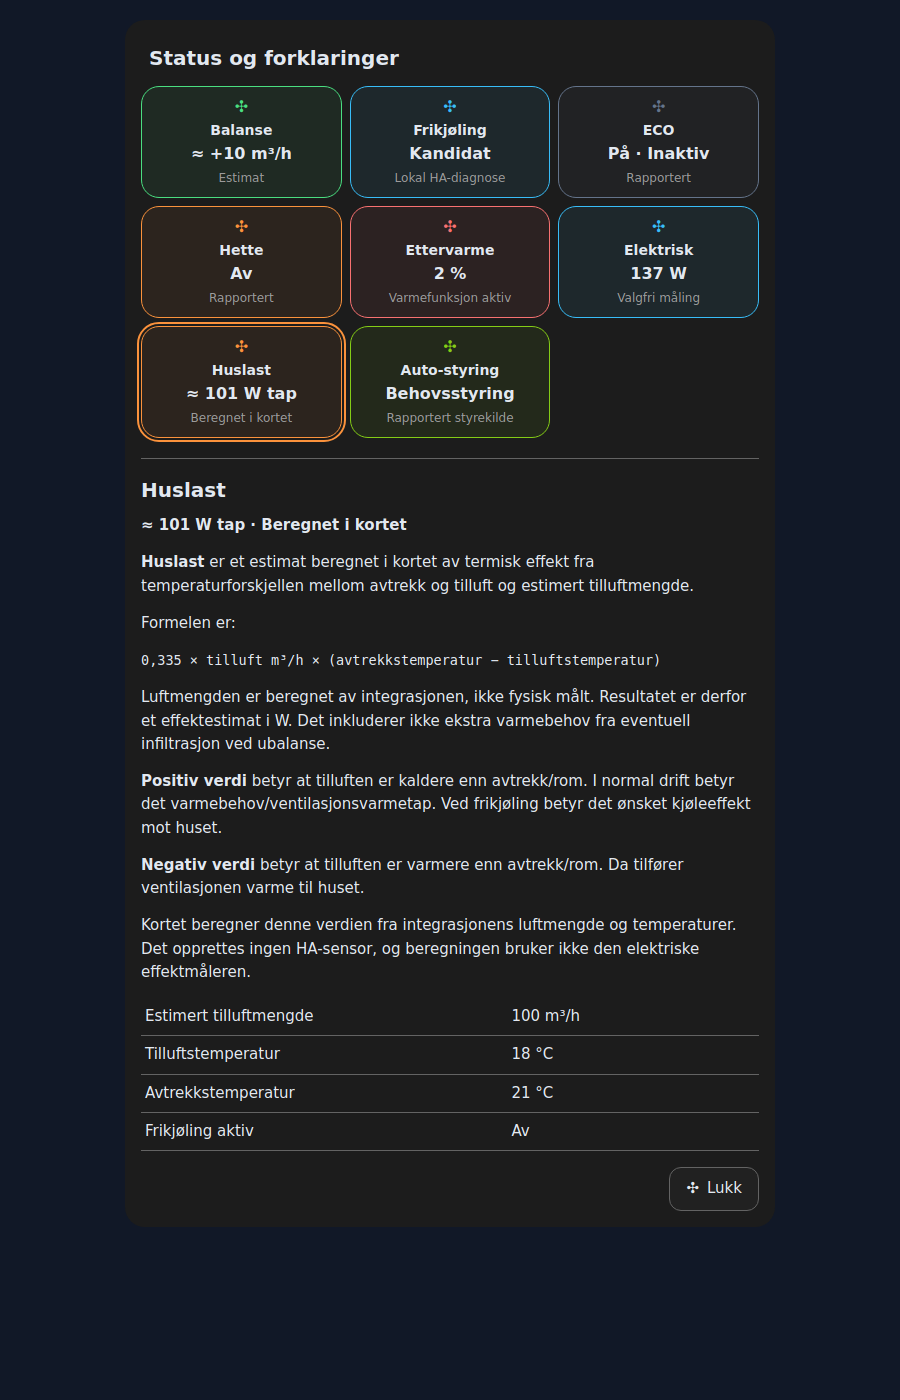
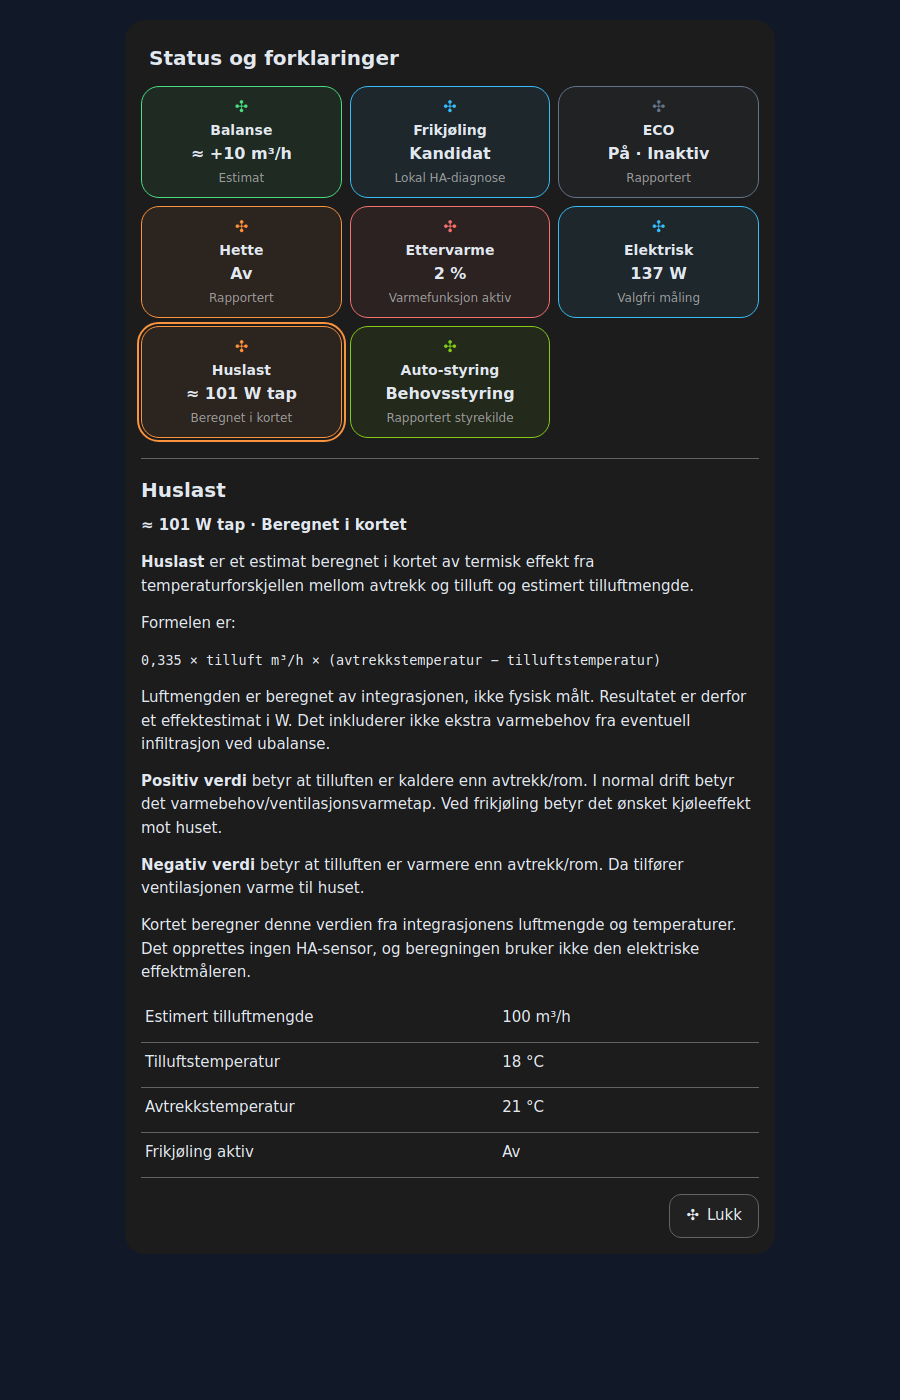
Open mapped HA entity details from explanation rows (1.2.3)

Changed region(s): [[0.1556, 0.7064, 0.3422, 0.8293], [0.56, 0.7064, 0.6533, 0.8293], [0.7467, 0.8293, 0.84, 0.8907]]

diff --git a/vsr300-cards.js b/vsr300-cards.js
@@ -1,4 +1,4 @@
-/* VSR300 custom cards · version 1.2.2 · 2026-11-03
+/* VSR300 custom cards · version 1.2.3 · 2026-11-03
  * SPDX-License-Identifier: MIT
  * Copyright (c) 2026 stboee
  * Based on Systemair SVG / Kontrollpanel 4.8.1.
@@ -8,7 +8,7 @@
  */
 (() => {
   'use strict';
-  const VERSION = '1.2.2';
+  const VERSION = '1.2.3';
   const FIELD = (key, label, domain, defaultId, extra = {}) => ({ key, label, domain, defaultId, ...extra });
   const SVG_FIELDS = [
     FIELD('mode', 'Rapportert driftsmodus', 'sensor', 'sensor.systemair_save_modus'),
@@ -889,7 +889,10 @@ const portRow = (role, x, y, height, content) => `<g ${action(role)}><rect class
     .status-button strong{font-size:14px}.status-button .reading{font-size:16px;font-weight:850;line-height:1.3}.status-button .kind{font-size:12px;line-height:1.3;color:var(--secondary-text-color,#9b9b9b)}
     .status-button ha-icon{--mdc-icon-size:28px}.explanation-panel{margin-top:20px;border-top:1px solid var(--divider-color,#636363);padding-top:16px;font-size:15px;line-height:1.55}
     .explanation-panel[hidden]{display:none}.explanation-panel h3{margin:0 0 8px;font-size:20px}.summary{font-weight:700;margin:0 0 12px}.explanation-panel p{margin:0 0 14px}.explanation-panel ul{padding-left:22px;margin:0 0 14px}
-    code{font-size:.9em;overflow-wrap:anywhere}.values{width:100%;border-collapse:collapse;table-layout:fixed;margin:12px 0 16px}.values td{padding:7px 4px;border-bottom:1px solid var(--divider-color,#636363);vertical-align:top;overflow-wrap:anywhere}.values td:first-child{width:58%}.values .source{display:block;font-weight:400;font-size:12px;color:var(--secondary-text-color,#9b9b9b)}
+    code{font-size:.9em;overflow-wrap:anywhere}.values{width:100%;border-collapse:collapse;table-layout:fixed;margin:12px 0 16px}.values td{padding:0;border-bottom:1px solid var(--divider-color,#636363);vertical-align:top;overflow-wrap:anywhere}.values .source{display:block;font-weight:400;font-size:12px;color:var(--secondary-text-color,#9b9b9b)}
+    .entity-row{display:grid;grid-template-columns:minmax(0,58fr) minmax(0,42fr);align-items:start;gap:8px;width:100%;min-height:44px;box-sizing:border-box;margin:0;padding:8px 4px;border:0;border-radius:6px;background:transparent;color:inherit;font:inherit;line-height:inherit;text-align:left;cursor:default}
+    .entity-row>span{min-width:0;overflow-wrap:anywhere}button.entity-row{cursor:pointer;touch-action:manipulation}button.entity-row:focus-visible{outline:3px solid var(--primary-color,#03a9f4);outline-offset:-3px}
+    @media(hover:hover){button.entity-row:hover{background:rgba(127,127,127,.10)}}
     .close-row{display:flex;justify-content:flex-end}.close-button{min-height:44px;flex-direction:row;padding:8px 16px;gap:8px;border-radius:12px}.close-button ha-icon{--mdc-icon-size:20px}
     @media(max-width:380px){ha-card{padding:12px}.status-grid{gap:6px}.status-button{padding:8px 4px}}
   `;
@@ -921,8 +924,18 @@ const portRow = (role, x, y, height, content) => `<g ${action(role)}><rect class
     constructor() {
       super(); this._selected = null;
       this.shadowRoot.addEventListener('click', event => {
-        const button = event.composedPath().find(el => el instanceof HTMLElement && el.matches('button[data-topic],button[data-close]'));
+        const button = event.composedPath().find(el => el instanceof HTMLElement && el.matches('button[data-topic],button[data-close],button[data-entity-role]'));
         if (!button) return;
+        if (button.dataset.entityRole) {
+          const role = button.dataset.entityRole, id = this._config?.entities[role];
+          if (EXPLANATION_FIELDS.some(field => field.key === role) && id && this._hass?.states?.[id]) {
+            this.dispatchEvent(new CustomEvent('hass-action', {
+              bubbles: true, composed: true,
+              detail: { config: { entity: id, tap_action: { action: 'more-info' } }, action: 'tap' },
+            }));
+          }
+          return;
+        }
         const closing = button.hasAttribute('data-close'), previous = this._selected;
         if (closing) this._selected = null;
         else if (EXPLANATION_TOPICS.some(topic => topic.key === button.dataset.topic)) this._selected = previous === button.dataset.topic ? null : button.dataset.topic;
@@ -1013,18 +1026,25 @@ const portRow = (role, x, y, height, content) => `<g ${action(role)}><rect class
       const text = topic.text.replace(/\{\{([a-z0-9_]+)\}\}/g, (_, role) => EXPLANATION_FIELDS.find(field => field.key === role)?.label || 'Beregnet i kortet');
       const rows = topic.roles.filter(role => this._config.entities[role]).map(role => {
         const field = EXPLANATION_FIELDS.find(item => item.key === role), id = this._config.entities[role];
-        return `<tr><td>${escape(field.label)}${this._config.show_sources ? `<code class="source">${escape(id)}</code>` : ''}</td><td>${escape(this._value(role))}</td></tr>`;
+        const content = `<span class="entity-label">${escape(field.label)}${this._config.show_sources ? `<code class="source">${escape(id)}</code>` : ''}</span><span class="entity-value">${escape(this._value(role))}</span>`;
+        const row = this._hass.states[id]
+          ? `<button class="entity-row" type="button" data-entity-role="${escape(role)}" aria-label="${escape('Vis detaljer og historikk: ' + field.label)}">${content}</button>`
+          : `<div class="entity-row">${content}</div>`;
+        return `<tr><td colspan="2">${row}</td></tr>`;
       }).join('');
       return `<h3 id="explanation-title">${escape(topic.title)}</h3><p class="summary">${escape(status.label)} · ${escape(status.kind)}</p>${explanationHtml(text)}${rows ? `<table class="values" aria-label="Relevante verdier"><tbody>${rows}</tbody></table>` : ''}<div class="close-row"><button class="close-button" data-close type="button"><ha-icon icon="mdi:close" aria-hidden="true"></ha-icon>Lukk</button></div>`;
     }
     _render() {
-      const focus = this.shadowRoot.activeElement?.dataset.topic, statuses = this._statuses();
+      const focused = this.shadowRoot.activeElement, focus = focused?.dataset.topic, focusRole = focused?.dataset.entityRole;
+      const focusClose = focused?.hasAttribute('data-close'), statuses = this._statuses();
       const topic = EXPLANATION_TOPICS.find(item => item.key === this._selected);
       this.shadowRoot.innerHTML = `<style>${SHARED_STYLE}${EXPLANATION_STYLE}</style><ha-card>${this._heading()}${this._missingNotice()}<div class="status-grid">${EXPLANATION_TOPICS.map(item => {
         const status = statuses[item.key];
         return `<button class="status-button" type="button" data-topic="${item.key}" aria-expanded="${this._selected === item.key}" aria-controls="explanation-panel" style="--accent:${status.color};--tile-tint:${status.color}12"><ha-icon icon="${item.icon}" aria-hidden="true"></ha-icon><strong>${escape(item.name)}</strong><span class="reading">${escape(status.label)}</span><span class="kind">${escape(status.kind)}</span></button>`;
       }).join('')}</div><section id="explanation-panel" class="explanation-panel" aria-labelledby="explanation-title" ${topic ? '' : 'hidden'}>${topic ? this._details(topic, statuses[topic.key]) : ''}</section></ha-card>`;
       if (focus) this.shadowRoot.querySelector(`button[data-topic="${focus}"]`)?.focus({ preventScroll: true });
+      else if (focusRole) this.shadowRoot.querySelector(`button[data-entity-role="${focusRole}"]`)?.focus({ preventScroll: true });
+      else if (focusClose) this.shadowRoot.querySelector('button[data-close]')?.focus({ preventScroll: true });
     }
   }
 

diff --git a/README.nb.md b/README.nb.md
@@ -2,7 +2,7 @@
 
 Tre Home Assistant-kort for Systemair SAVE VSR300: **Systemair SVG**,
 **Systemair Kontrollpanel** og det valgfrie **Systemair Status og forklaringer**,
-med grafisk valg av entiteter. Kortversjon: **1.2.2**.
+med grafisk valg av entiteter. Kortversjon: **1.2.3**.
 Referanseoppsettet er HA 2026.10.2 og
 [Howard systemair_modbus 1.3.0](https://github.com/Howard0000/home-assistant-systemair-modbus).
 
@@ -22,7 +22,7 @@ Ved overgang fra manuell installasjon erstatter du den gamle ressursen
 
 1. Last ned [vsr300-cards.js](vsr300-cards.js) med GitHubs **Download raw file**-knapp.
 2. Kopier filen til `/config/www/vsr300/vsr300-cards.js` i Home Assistant. Opprett mappen `vsr300` ved behov.
-3. Legg til en dashboardressurs med URL **`/local/vsr300/vsr300-cards.js?v=1.2.2`** og type **JavaScript-modul**.
+3. Legg til en dashboardressurs med URL **`/local/vsr300/vsr300-cards.js?v=1.2.3`** og type **JavaScript-modul**.
 4. Last nettlesersiden helt på nytt. Rediger dashboardet og legg til kortene du ønsker fra kortvelgeren.
 
 ## Oppsett av kortene
@@ -106,7 +106,7 @@ SVG-ens totale bredde og skriftstørrelser er beholdt.
 - `≈` markerer integrasjonens estimerte luftmengde. **Vekslerpådrag** er et pådrag, ikke målt virkningsgrad. Ettervarme vises i prosent, uten wattestimat.
 - Hvert aktivt tilkoblet alarmsignal får egen rad. A/B/C er samlealarmer og kan overlappe andre indikasjoner.
 - Luftveiene og animasjonene er skjematiske.
-- **Status og forklaringer** har åtte statusfelt med forklaringer, lokalt menyvalg (nytt trykk på samme felt lukker teksten), tre kolonner også på mobil, beregnet Huslast og valgfri effektmåling. Det krever verken input_select-hjelper eller button-card. Lokal frikjølingsdiagnose og døgnmaksimum er valgfrie eksisterende HA-kilder som skilles fra integrasjonens rapportering. Se [kortet og overgangen fra YAML](EXPLANATIONS.md).
+- **Status og forklaringer** har åtte statusfelt med forklaringer, lokalt menyvalg (nytt trykk på samme felt lukker teksten), tre kolonner også på mobil, beregnet Huslast og valgfri effektmåling. Det krever verken input_select-hjelper eller button-card. Lokal frikjølingsdiagnose og døgnmaksimum er valgfrie eksisterende HA-kilder som skilles fra integrasjonens rapportering. Trykk på verdiradene i forklaringene for å åpne tilhørende HA-entitet og tilgjengelig historikk. Se [kortet og overgangen fra YAML](EXPLANATIONS.md).
 
 [Entitetskart](ENTITETSKART.md) · [Endringslogg](CHANGELOG.md) ·
 [Verifikasjon og begrensninger](VERIFIKASJON.md) · [Kilder](SOURCES.md) · [MIT-lisens](LICENSE)

diff --git a/README.md b/README.md
@@ -3,7 +3,7 @@
 Three Home Assistant cards for Systemair SAVE VSR300: **Systemair SVG**,
 **Systemair Kontrollpanel**, and optional **Systemair Status og forklaringer**,
 with graphical entity selection. Current card
-version: **1.2.2**. Reference setup: HA 2026.10.2 and
+version: **1.2.3**. Reference setup: HA 2026.10.2 and
 [Howard systemair_modbus 1.3.0](https://github.com/Howard0000/home-assistant-systemair-modbus).
 
 [Norsk veiledning](README.nb.md)
@@ -24,7 +24,7 @@ same cards are loaded only once. Keep the existing card configurations.
 
 1. Download [vsr300-cards.js](vsr300-cards.js) using GitHub's **Download raw file** button.
 2. Copy it to `/config/www/vsr300/vsr300-cards.js` in Home Assistant. Create the `vsr300` folder if needed.
-3. Add a dashboard resource with URL **`/local/vsr300/vsr300-cards.js?v=1.2.2`** and type **JavaScript module**.
+3. Add a dashboard resource with URL **`/local/vsr300/vsr300-cards.js?v=1.2.3`** and type **JavaScript module**.
 4. Fully reload the browser, edit the dashboard and add the cards you want from the card picker.
 
 ## Configure the cards
@@ -103,7 +103,7 @@ thermal efficiency, and no new history is created by the card.
 - `≈` marks the integration's estimated airflow. **Vekslerpådrag** is control output, not measured heat-recovery efficiency. Heater output is shown in percent, without a watt estimate.
 - Each active configured alarm signal gets its own row. A/B/C are summary alarms and may overlap other indications.
 - The air paths and animations are schematic.
-- **Status og forklaringer** has eight status tiles and explanations, local open/close selection (tap the same tile again to close), three columns on mobile, calculated house load, and optional measured power. It needs neither an input_select helper nor button-card. Local free-cooling diagnosis and 24-hour maximum are optional existing HA sources, clearly separate from integration reports. See [explanations card and migration](EXPLANATIONS.md).
+- **Status og forklaringer** has eight status tiles and explanations, local open/close selection (tap the same tile again to close), three columns on mobile, calculated house load, and optional measured power. It needs neither an input_select helper nor button-card. Local free-cooling diagnosis and 24-hour maximum are optional existing HA sources, clearly separate from integration reports. Tap the entity rows inside explanations to open their mapped HA entity and available history. See [explanations card and migration](EXPLANATIONS.md).
 
 ![Cards rendered with simulated values](images/overview-simulated.png)
 

diff --git a/EXPLANATIONS.md b/EXPLANATIONS.md
@@ -1,4 +1,4 @@
-# Status og forklaringer – 1.2.2
+# Status og forklaringer – 1.2.3
 
 Et valgfritt tredje kort i samme pakke som SVG og Kontrollpanel:
 
@@ -34,6 +34,24 @@ felt for å bytte forklaring. **Lukk** nederst skjuler også forklaringen.
 Menyvalget gjelder hvert kort for seg,
 beholdes ved vanlige HA-oppdateringer og starter skjult ved ny sideinnlasting.
 Valget sender ingen kommando til HA eller aggregatet.
+
+### Klikk på entiteter i forklaringen
+
+Trykk på en rad i tabellen **Relevante verdier** for å åpne den valgte
+entitetens vanlige HA-vindu med tilgjengelig historikk. Navn, verdi og eventuell
+synlig entitets-ID tilhører samme trykkfelt. Enter og mellomrom fungerer også.
+Forklaringen beholdes åpen, og entitetskoblingene i editoren brukes videre.
+
+Dette gjelder integrasjonsentiteter og eventuelle valgte lokale eller målte
+kilder. En eksisterende entitet med ukjent/utilgjengelig verdi kan fortsatt
+åpnes; en entitet som ikke finnes vises som ukjent uten klikkhandling.
+Tømte valgfrie koblinger utelates som før. Historikken avhenger av hva HA har
+lagret. Kortet henter ikke egen historikk eller oppretter nye entiteter.
+
+Huslast beregnes i kortet og har ingen egen historikk. Radene i forklaringen
+åpner temperaturene, luftmengden og frikjølingsstatusen som ligger til grunn.
+Menyfeltene øverst fortsetter å åpne/lukke forklaringer, og **Lukk** nederst
+beholdes. Et trykk på en entitetsrad sender bare en mer-info-handling.
 
 Kortet beregner følgende fra de valgte integrasjonsentitetene:
 
@@ -94,6 +112,11 @@ unused optional fields. The eight topics, explanations and source readouts
 are retained from the maintainer's supplied card. Selection is local to each
 card: tap the selected tile again to close it, or use Close below the text.
 The tiles keep three columns on mobile without smaller font sizes.
+Tap any entity row in an explanation to open its mapped HA entity and available
+history. The label, value and optional source ID share one native button,
+including keyboard support. The explanation stays open. Missing entities have
+no action; existing unavailable entities remain inspectable. Card-local house
+load has no separate history; its underlying source rows can be opened.
 House load is calculated from native integration values. No helper,
 button-card dependency or local house-load entity is required. Optional local
 free-cooling diagnoses and measured electrical power remain external HA inputs.

diff --git a/VERIFIKASJON.md b/VERIFIKASJON.md
@@ -1,6 +1,32 @@
-# Verifikasjon – 1.2.2 – 2026-11-03
+# Verifikasjon – 1.2.3 – 2026-11-03
 
-## Gjennomført lokalt for 1.2.2
+## Gjennomført lokalt for 1.2.3
+
+- 14 kontrollgrupper for Status og forklaringer består, med tidligere
+  beregninger, ukjente verdier, lokale kilder, remapping og menyoppførsel.
+- Verdiradene i alle åtte emner åpner forventet entitet med én native
+  `hass-action` / `more-info` ved trykk på navn eller verdi. Valgfri synlig
+  entitets-ID følger samme handling og respekterer endrede koblinger.
+- Native HTML-knapper støtter Enter/mellomrom uten doble hendelser. Fokus
+  beholdes ved HA-oppdatering. Valgt forklaring forblir åpen etter entitetsklikk.
+- Ukjente/utilgjengelige eksisterende entiteter kan åpnes. Manglende entiteter
+  vises som ukjent uten knapp; tomme koblinger utelates.
+- Alle emner og verdirader er kontrollert ved 320/360/412/900 px i lyst og
+  mørkt tema. Radene er minst 44 CSS-piksler høye og har ingen horisontal
+  overflyt i kontrolloppsettet. Berøringshendelser åpner riktig kilde.
+- Tre menyfelt i bredden, gjentatt trykk for lukking og Lukk nederst består.
+  Mobil-/desktopbilder er gjennomgått visuelt.
+- SVG, Kontrollpanel, felleskode, entitetskart og opprinnelige forklaringstekster
+  er sammenlignet med 1.2.2 og er identiske bortsett fra pakkeversjonen.
+- Forklaringskortet sender ingen HA-tjenestekall eller eksterne forespørsler.
+  Det lager ingen nye entiteter eller egen historikk for beregnet Huslast.
+
+Prosjekteieren har rapportert at Cockpit-klikkene fra 1.2.2 fungerer i faktisk
+HA. De nye forklaringsradene er kontrollert med simulerte HA-tilstander og
+registrerte mer-info-hendelser; faktisk visning og dialogåpning bekreftes etter
+oppdatering. Dette er ingen ny Modbus- eller aggregatverifikasjon.
+
+## Historisk kontrollgrunnlag – 1.2.2, 2026-11-03
 
 - 30 lokale nettleserkontrollgrupper består: 14 tidligere kontroller, ni for
   Status og forklaringer og sju for nye SVG-handlinger.

diff --git a/CHANGELOG.md b/CHANGELOG.md
@@ -1,5 +1,16 @@
 # Changelog
 
+## 1.2.3 — 2026-11-03
+
+- Entity rows in Status og forklaringer open their mapped HA entity through
+  native more-info actions. Labels, values and optional source IDs share a
+  full-width target, with keyboard activation and focus retained on HA updates.
+- Existing unavailable entities remain inspectable. Missing entities show an
+  unknown value without a misleading action; cleared bindings stay omitted.
+- Topic selection, repeated-tap closing, three mobile columns and the bottom
+  Close button are retained. Existing mappings and calculations are reused.
+- SVG and control card code are unchanged apart from the package version.
+
 ## 1.2.2 — 2026-11-03
 
 - SVG values now open their mapped HA entity using native more-info actions:

diff --git a/SOURCES.md b/SOURCES.md
@@ -33,6 +33,9 @@ Version 1.2.2, 2026-11-03, adds native HA more-info actions to individual SVG
 values, symbols and alarm lines using their existing entity mappings. The side
 boxes gain vertical space without changing the SVG canvas or text sizes.
 The UI action opens entity details; it does not write a Modbus register.
+Version 1.2.3, 2026-11-03, reuses the same native more-info action for the entity
+rows inside explanations. Topic selection and card-local calculations remain
+independent of those entity-history actions.
 
 The initial entity names are configuration presets from the maintainer's HA
 installation. They are not credentials, recorded operating data or universal

diff --git a/ENTITETSKART.md b/ENTITETSKART.md
@@ -1,4 +1,4 @@
-# Entitetskart – custom cards 1.2.2
+# Entitetskart – custom cards 1.2.3
 
 Startkoblingene er eksempler fra referanseoppsettet. Brukeren må kontrollere alle
 koblinger i kortene som brukes og endre dem til tilsvarende entiteter i sin egen
